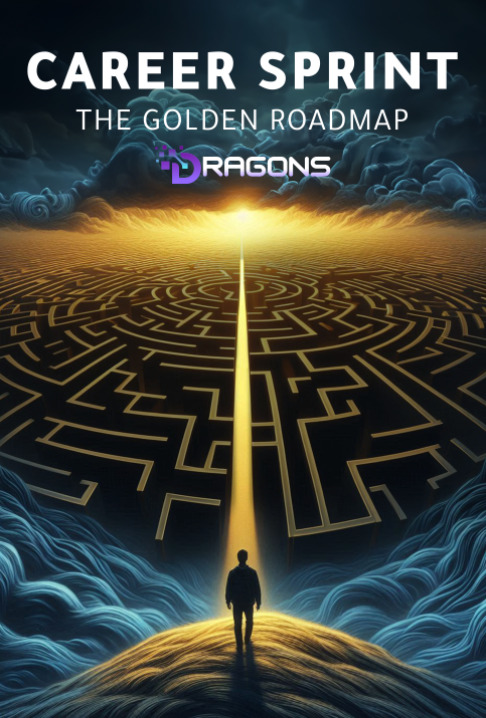
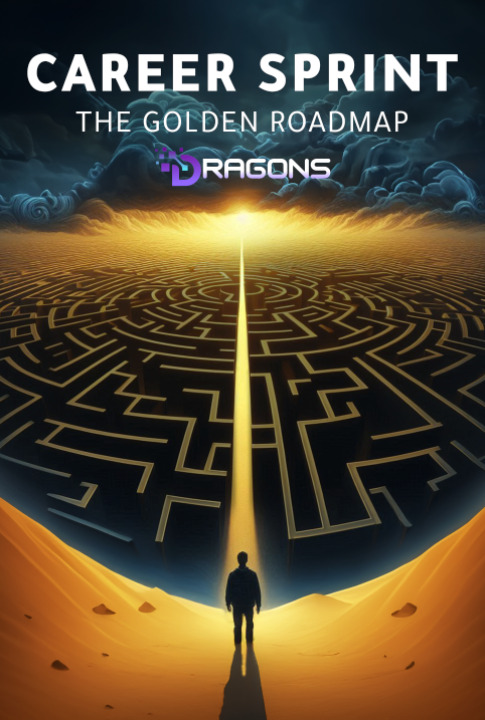
Card change

diff --git a/src/components/Cards/MinisprintCard.tsx b/src/components/Cards/MinisprintCard.tsx
@@ -1,92 +1,55 @@
-import React from "react";
-import ButtonComponent from "../Micros/Button";
-import ButtonLite from "../Micros/ButtonLite";
-import { Date_1, Time_1 } from "../Icons";
 import Image from "next/image";
+import React, { useState } from "react";
+import CoverImage from "@/../public/images/DragonsSprint-CarrerSprint/Dragonswebsiteheader.png";
+import Link from "next/link";
+import { useRouter } from "next/router";
+import ButtonComponent from "../Micros/ButtonLite";
 
-export interface MinisprintCardProps {
-  price: string;
-  title: string;
-  description: string;
-  imageUrl: string;
-  duration: string;
-  startDate: string;
-  exploreUrl: string;
-}
-
-const truncateDescription = (description: string, maxLength: number) => {
-  if (description.length > maxLength) {
-    return description.substring(0, maxLength) + "...";
-  }
-  return description;
-};
-
-const MinisprintCard: React.FC<MinisprintCardProps> = ({
-  price,
-  title,
-  description,
-  imageUrl,
-  duration,
-  startDate,
+export default function MovieCard({
+  movie,
   exploreUrl,
-}) => {
-  const maxDescriptionLength = 100;
-  const BASE_URL = "/DragonsSprints";
+  expandImage,
+}: {
+  movie: any;
+  exploreUrl: string;
+  expandImage: any;
+}) {
+  const [isHovered, setIsHovered] = useState(false);
+  const router = useRouter();
+  const currentURL = router.route;
 
   return (
     <div
-      className='max-w-sm rounded-3xl relative overflow-hidden shadow-lg cursor-pointer bg-white/10 backdrop-blur-md hover:bg-white/20 transition-all group'
-      style={{ transformOrigin: "left top" }}>
-      <div className='w-full  rounded-3xl relative h-64 flex justify-center items-center overflow-hidden'>
+      className={`relative transition-all duration-300 ease-in-out ${
+        isHovered ? "aspect-video  h-96" : "aspect-[2/3] h-96"
+      }`}
+      onMouseEnter={() => setIsHovered(true)}
+      onMouseLeave={() => setIsHovered(false)}>
+      <div className='w-full h-full relative rounded-3xl overflow-hidden'>
         <Image
+          src={isHovered ? movie.expandImage : movie.posterImage || CoverImage}
+          alt={movie.title}
           layout='fill'
           objectFit='cover'
-          className='min-w-full rounded-3xl min-h-full object-cover hover:scale-[1.8] scale-[1.7] transition-all'
-          src={imageUrl}
-          alt={title}
-          style={{ transformOrigin: "right center" }}
         />
-      </div>
-      <div className='p-4 flex flex-col gap-4'>
-        <div>
-          <div className='font-bold text-3xl capitalize mb-2'>{title}</div>
-          <p className='text-base py-2 lg:text-lg font-medium text-gray-200/70 hidden md:block'>
-            {truncateDescription(description, maxDescriptionLength)}
-          </p>
-        </div>
-        <div>
-          <p className='text-slate-100  font-semibold rotate-45 absolute top-2 -right-11 py-1 bg-yellow-500 border-y border-yellow-500/40 w-[150px] text-center text-lg shadow-lg'>
-            {price}
-            <span className='absolute inset-0 overflow-hidden rounded-full'>
-              <span className='absolute inset-0 rounded-full bg-[image:radial-gradient(75%_100%_at_50%_0%,rgba(56,189,248,0.6)_0%,rgba(56,189,248,0)_75%)] transition-opacity duration-500 opacity-100 rotate-180 group-hover:animate-pulse' />
-            </span>
-          </p>
-          <p className='text-slate-300 font-medium text-xl flex'>
-            <span className='mr-1 w-5  aspect-square'>
-              <Time_1 />
-            </span>{" "}
-            Duration: {duration}
-          </p>
-          <p className='text-slate-300 font-medium text-xl flex'>
-            <span className='mr-1 w-5 aspect-square'>
-              <Date_1 />
-            </span>{" "}
-            Start Date: {startDate}
-          </p>
-        </div>
-        <div className='flex justify-center w-full'>
-          <div className='h-16  w-64'>
-            <ButtonComponent
-              CTAtext='Explore'
-          
-              type='link'
-              href={`${BASE_URL}/${exploreUrl}`}
-            />
+        {isHovered && (
+          <div className='absolute inset-0  shadow-inner bg-black/10 flex flex-col justify-end p-4'>
+            <div className="absolute inset-0     flex flex-col justify-end p-4 max-w-96">
+            <h2 className='text-white text-lg font-bold  mb-2'>{movie.title}</h2>
+            <p className='text-gray-300 text-sm mb-2 '>{movie.duration}</p>
+            <p className='text-gray-300 text-xs mb-4 line-clamp-3'>
+              {movie.description}
+            </p>
+            <Link href={`${currentURL}/${exploreUrl}`} passHref>
+              <div className='lg:flex gap-4  hidden mt-4 justify-left'>
+                <div className='h-16 w-64  '>
+                  <ButtonComponent CTAtext='Watch Now' className='!h-fit' />
+                </div>
+              </div>
+            </Link></div>
           </div>
-        </div>
+        )}
       </div>
     </div>
   );
-};
-
-export default MinisprintCard;
+}

diff --git a/src/pages/DragonsSprints/index.tsx b/src/pages/DragonsSprints/index.tsx
@@ -3,7 +3,9 @@ import MinisprintCard, {
 } from "@/components/Cards/MinisprintCard";
 import Hero_2 from "@/components/Hero/Hero_2";
 import HeroSlider from "@/VideoPlatformView/HeroSlider";
-import CoverImage from "@/../public/images/DragonsSprint-CarrerSprint/Positionbattleheader.png";
+import CoverImage from "@/../public/images/DragonsSprint-CarrerSprint/theMaze.jpeg";
+import expandCoverImage from "@/../public/images/DragonsSprint-CarrerSprint/theMazewide.png";
+
 
 import React from "react";
 const heroObj = {
@@ -27,6 +29,7 @@ const minisprintData = [
     description:
       "Understand career technical paths, with real-world scenarios and intensive 2 weeks of learning, practice, and mentorship.",
     imageUrl: CoverImage.src,
+    expandImage: expandCoverImage.src,
     duration: "2 weeks",
     startDate: "2024-07-20",
     exploreUrl: "CareerSprint",
@@ -40,7 +43,16 @@ export default function index() {
       <div className='flex justify-center min-h-[400px] items-center flex-wrap w-11/12 gap-12'>
         {minisprintData.length !== 0 ? (
           minisprintData.map((minisprint, i) => (
-            <MinisprintCard key={i} {...minisprint} />
+            <MinisprintCard
+              movie={{
+                title: "The 14 Day Developer's Quest Career Sprint Challenge",
+                duration: "2h 15m",
+                description: "Understand career technical paths, with real-world scenarios and intensive 2 weeks of learning, practice, and mentorship.",
+                posterImage: CoverImage,
+                expandImage: minisprint.expandImage,
+              }}
+              exploreUrl={minisprint.exploreUrl}
+              key={i} />
           ))
         ) : (
           <div className='flex flex-col items-center justify-center w-full h-[500px] text-center text-5xl font-semibold text-purple-400/50'>

diff --git a/src/VideoPlatformView/HeroSlider.tsx b/src/VideoPlatformView/HeroSlider.tsx
@@ -35,11 +35,9 @@ export default function HeroSlider(props: { exploreUrl: string }) {
             {/* Buttons (remove on mobile) */}
             <div className='lg:flex gap-4 hidden mt-4 justify-left md:justify-start'>
               <Link href={CurrentURL+"/"+exploreUrl} className='h-16 w-64' passHref>
-                <ButtonComponent CTAtext='Explore courses' />
+                <ButtonComponent CTAtext='Take The Challenge' />
               </Link>
-              <div className='h-16 w-64'>
-                <ButtonComponentLite CTAtext='Buy Now' />
-              </div>
+             
             </div>
           </div>
         </div>
